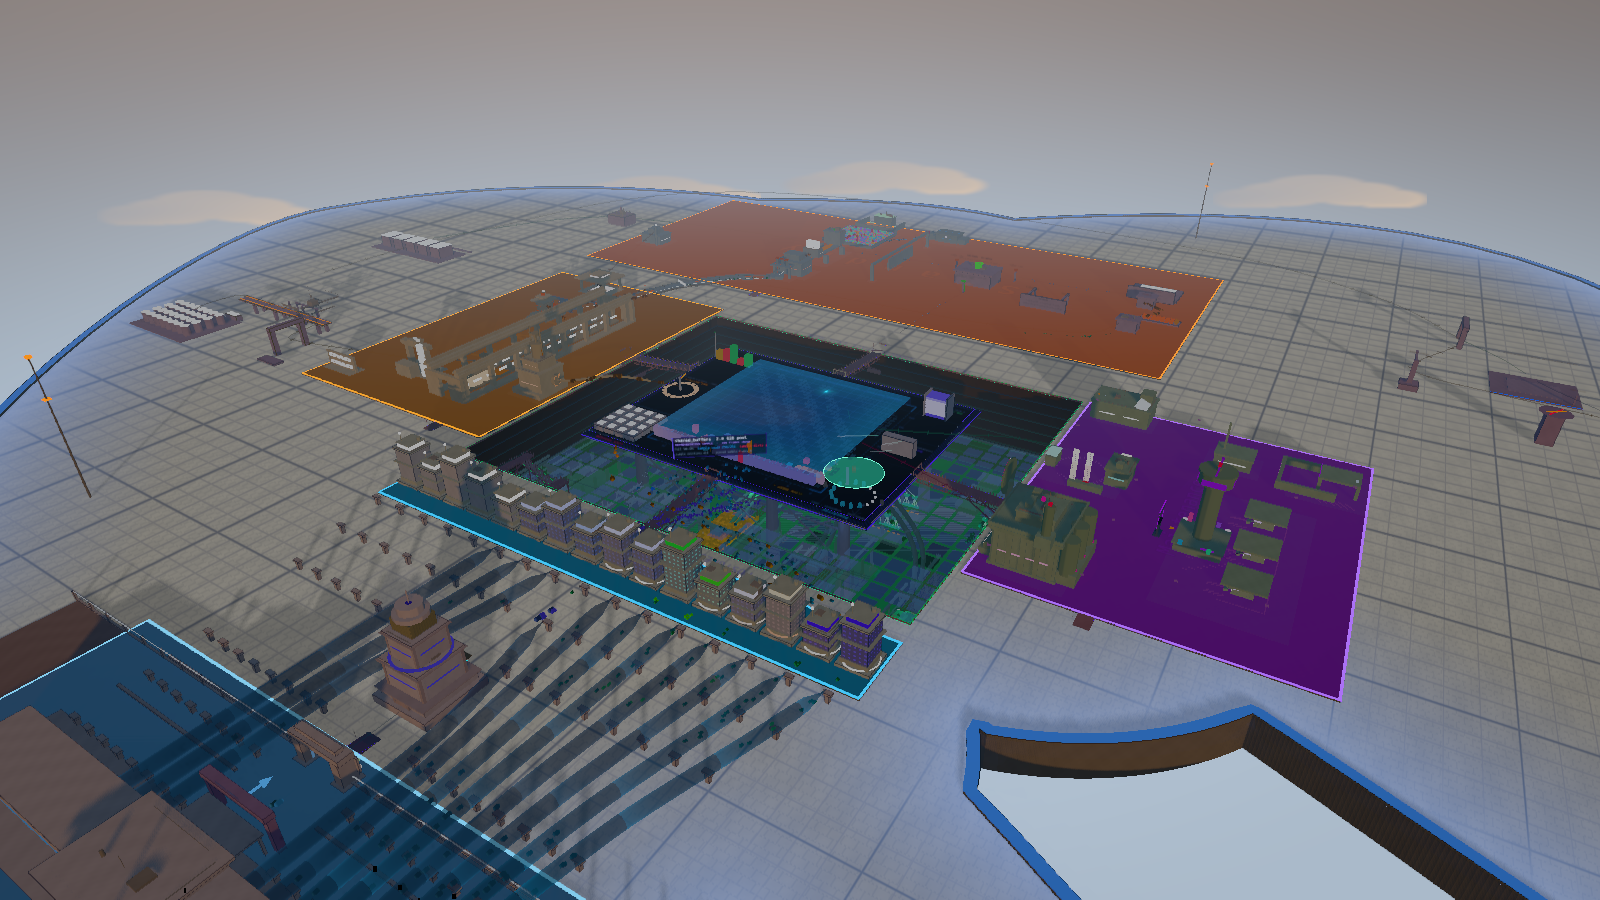
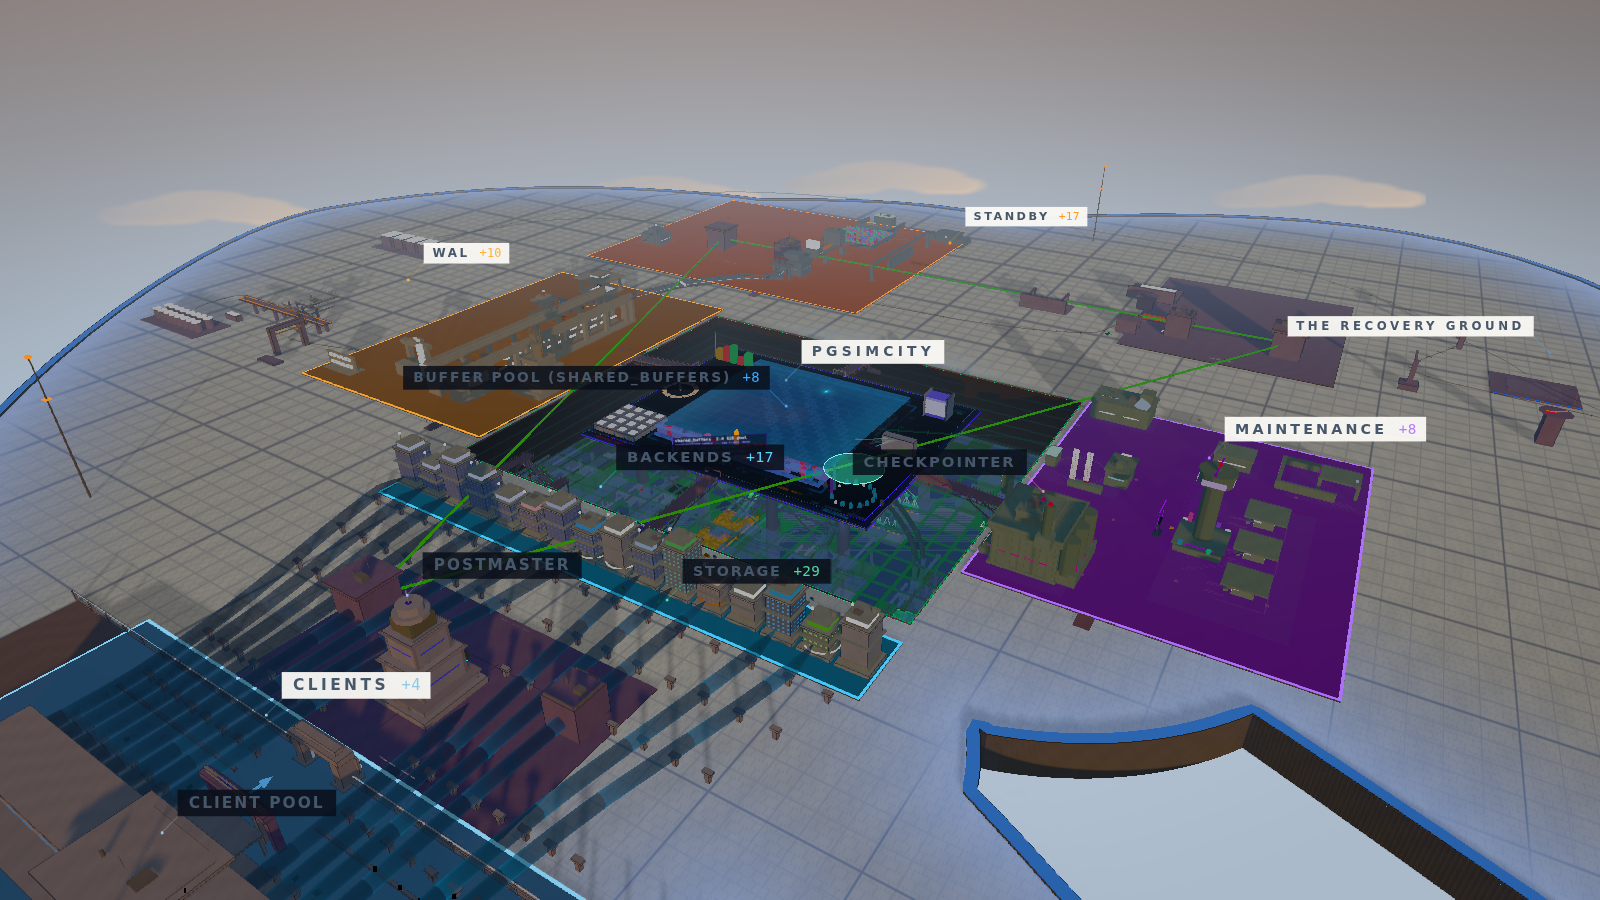
docs: correct front-door claims

diff --git a/test/claims-spine.test.ts b/test/claims-spine.test.ts
@@ -8,6 +8,7 @@ import {
 } from '../src/core/claims'
 import { MACHINE_SYNCHRONOUS_COMMIT_COMPARISON } from '../src/spine/machine-comparison'
 import { MACHINE_INDEX_WALK } from '../src/spine/machine-index-walk'
+import { POSTGRESQL_ORACLE_CLAIMS } from '../src/spine/postgresql-oracle'
 import type { ClaimId } from '../src/core/claims'
 import { DESTINATIONS } from '../src/core/destinations'
 import { formatModelMilliseconds } from '../src/core/trace-presentation'
@@ -132,8 +133,23 @@ describe('claims and conventions spine', () => {
     const hint = KNOB_META.find((knob) => knob.key === 'sharedBuffers')?.hint ?? ''
     expect(hint, 'bufferSample: controls:shared_buffers hint omits the default active sample')
       .toContain(String(CLAIM_VALUES.bufferSample.defaultActiveFrames))
-    expect(read('README.md'), 'bufferSample: README:buffer-pool row disagrees')
-      .toContain(`${CLAIM_VALUES.bufferSample.capacityFrames.toLocaleString('en-US')} representative frames (${CLAIM_VALUES.bufferSample.defaultActiveFrames} active at the default 2 GiB setting)`)
+    const postgresDefault = POSTGRESQL_ORACLE_CLAIMS.gucDefaults.find(
+      (claim) => claim.id === 'postgres-default/shared_buffers',
+    )
+    const modelDefault = POSTGRESQL_ORACLE_CLAIMS.gucDefaults.find(
+      (claim) => claim.id === 'city-model/shared_buffers',
+    )
+    expect(postgresDefault, 'bufferSample: oracle lacks the PostgreSQL default').toBeDefined()
+    expect(modelDefault, 'bufferSample: oracle lacks the city model default').toBeDefined()
+    expect(Array.isArray(postgresDefault!.expected)).toBe(false)
+    expect(Array.isArray(modelDefault!.expected)).toBe(false)
+    const postgresValue = postgresDefault!.expected as { value: string | number, unit: string }
+    const modelValue = modelDefault!.expected as { value: string | number, unit: string }
+    expect(postgresValue.unit).toBe('MB')
+    expect(modelValue.unit).toBe('MB')
+    const readmeDefaultBoundary = `${CLAIM_VALUES.bufferSample.capacityFrames.toLocaleString('en-US')} representative frames (${CLAIM_VALUES.bufferSample.defaultActiveFrames} active at the ${Number(modelValue.value) / 1024} GiB model default; ${CLAIM_VALUES.postgresqlVersion.referenceLabel} itself defaults to ${postgresValue.value} MiB)`
+    expect(read('README.md'), 'bufferSample: README:buffer-pool row disagrees with the oracle')
+      .toContain(readmeDefaultBoundary)
     expect(storageDocCopy('standby.b'), 'bufferSample: prose:standby sample disclosure disagrees')
       .toContain(`${CLAIM_VALUES.bufferSample.capacityFrames.toLocaleString('en-US')}-frame sample capacity; at the default 2 GiB setting ${CLAIM_VALUES.bufferSample.defaultActiveFrames} frames are active`)
   })

diff --git a/test/build-metadata.test.ts b/test/build-metadata.test.ts
@@ -6,12 +6,33 @@ import { BUILD_LABEL, BUILD_SHA, BUILD_VERSION } from '../src/core/build'
 
 const pkg = JSON.parse(
   readFileSync(fileURLToPath(new URL('../package.json', import.meta.url)), 'utf8'),
-) as { version: string }
+) as { version: string, engines: { node: string } }
+const lock = JSON.parse(
+  readFileSync(fileURLToPath(new URL('../package-lock.json', import.meta.url)), 'utf8'),
+) as { packages: Record<string, { engines?: { node?: string } }> }
+const read = (path: string): string =>
+  readFileSync(fileURLToPath(new URL(`../${path}`, import.meta.url)), 'utf8')
 
 describe('build marker', () => {
   it('contains the package version and build-time short git SHA', () => {
     expect(BUILD_VERSION).toBe(pkg.version)
     expect(BUILD_SHA).toMatch(/^[0-9a-f]{7}$/)
     expect(BUILD_LABEL).toBe(`v${pkg.version} · ${BUILD_SHA}`)
+
+    const viteNodeRange = lock.packages['node_modules/vite'].engines?.node
+    expect(pkg.engines.node).toBe(viteNodeRange)
+    for (const path of ['README.md', 'CONTRIBUTING.md', 'CLAUDE.md']) {
+      expect(read(path), `${path} does not state the toolchain's Node constraint`)
+        .toContain(`Node.js \`${pkg.engines.node}\``)
+    }
+
+    const contributing = read('CONTRIBUTING.md')
+    expect(contributing).toContain('google-chrome')
+    expect(contributing).toContain('CHROME_BIN')
+    expect(contributing).toContain("npm test -- --exclude '**/*.browser.test.*'")
+
+    const roadmap = read('ROADMAP.md')
+    expect(roadmap).toMatch(/starts at the `high` quality tier[^.]+`medium`[^.]+`reduced`[^.]+`low`/i)
+    expect(roadmap).not.toContain('Modest hardware falls to the `reduced` quality tier')
   })
 })

diff --git a/index.html b/index.html
@@ -54,7 +54,7 @@
     <meta property="og:image:height" content="630" />
     <meta
       property="og:image:alt"
-      content="The PGSimCity elephant mark beside a night-time 3D model of a PostgreSQL cluster laid out as a city."
+      content="The PGSimCity elephant mark and title above a golden-hour 3D PostgreSQL city with two standbys, recovery, continuity, WAL, storage, and maintenance districts."
     />
 
     <meta name="twitter:card" content="summary_large_image" />
@@ -66,7 +66,7 @@
     <meta name="twitter:image" content="https://nikolays.github.io/PGSimCity/og.png" />
     <meta
       name="twitter:image:alt"
-      content="The PGSimCity elephant mark beside a night-time 3D model of a PostgreSQL cluster laid out as a city."
+      content="The PGSimCity elephant mark and title above a golden-hour 3D PostgreSQL city with two standbys, recovery, continuity, WAL, storage, and maintenance districts."
     />
   </head>
   <body>

diff --git a/test/content-corrections.test.ts b/test/content-corrections.test.ts
@@ -52,6 +52,8 @@ describe('PostgreSQL 18 content corrections', () => {
 
     expect(readme).toContain('targets the PostgreSQL 18 major line')
     expect(readme).toContain('fixed 32-frame ring')
+    expect(readme).toMatch(/WAL district[^\n]+archiver copies completed[^\n]+walsenders independently stream WAL as it is generated/i)
+    expect(readme).not.toContain('walwriter → `pg_wal` segments → archiver → walsender')
     expect(bodies).toContain('io_combine_limit')
     expect(`${bodies}\n${diagnosticCopy}`).not.toMatch(/small (?:256 kB|256 KiB) ring/i)
     expect(CLAIM_VALUES.timelineRecovery.defaultDisclosure).toMatch(/since PostgreSQL 12/i)

diff --git a/README.md b/README.md
@@ -68,10 +68,10 @@ audio, or game content.
 | **Client sky** (north, above) | Connections arriving from the application tier |
 | **Postmaster** | The supervisor. Forks one backend per connection and never touches your data |
 | **Backend row** | 16 backend processes. Their lighting *is* their state — including `idle in transaction` |
-| **Buffer pool (`shared_buffers`)** | Up to 1,024 representative frames (256 active at the default 2 GiB setting), beside `wal_buffers`, the ProcArray, lock table, CLOG and buffer mapping table |
+| **Buffer pool (`shared_buffers`)** | Up to 1,024 representative frames (256 active at the 2 GiB model default; PostgreSQL 18.3 itself defaults to 128 MiB), beside `wal_buffers`, the ProcArray, lock table, CLOG and buffer mapping table |
 | **The excavation** | The data directory: where memory ends and storage begins |
 | **Storage** (below) | Heap files as fields of 8 KiB pages, B-trees as actual trees, TOAST, the FSM and visibility map, the OS page cache and the disks |
-| **WAL district** (east) | walwriter → `pg_wal` segments → archiver → walsender |
+| **WAL district** (east) | Backends and walwriter write WAL into `pg_wal`; the archiver copies completed segments, while walsenders independently stream WAL as it is generated |
 | **Maintenance yard** (west) | Checkpointer, background writer, autovacuum launcher and its workers |
 | **Standbys** (south) | Two independent walreceivers, startup processes replaying WAL, and the lag on each stream |
 | **Continuity quarter** (outer east and south) | WAL archive, base backups, point-in-time recovery, delayed replay, leader lease and rejoin machinery |
@@ -214,7 +214,7 @@ sources separately because PostgreSQL exposes the former and not the latter.
 
 ## Run it locally
 
-You need Node.js 20 or newer and a browser with WebGL2.
+You need Node.js `^20.19.0 || >=22.12.0` and a browser with WebGL2.
 
 ```bash
 npm install

diff --git a/CONTRIBUTING.md b/CONTRIBUTING.md
@@ -11,12 +11,12 @@ Thanks for helping make PostgreSQL internals understandable and accurate.
 
 ## Development
 
-Node.js 20 or newer is required.
+Node.js `^20.19.0 || >=22.12.0` is required.
 
 ```bash
 npm install
 npm run dev        # http://localhost:5173/
-npm test           # one fast, deterministic run
+npm test           # full suite, including Chrome tests
 npm run test:watch # rerun affected tests while editing
 npm run oracle     # compare registered claims with PostgreSQL 18
 ```
@@ -25,9 +25,18 @@ The oracle starts and removes its own throwaway cluster. It requires the target
 major's server binaries at `/usr/lib/postgresql/18/bin`; it never substitutes a
 different PostgreSQL major or silently runs without a server.
 
+The full `npm test` suite requires `google-chrome` on `PATH`. Set `CHROME_BIN`
+to select another Chrome or Chromium executable. Contributors without Chrome
+can run the deterministic fast lane while editing:
+
+```bash
+npm test -- --exclude '**/*.browser.test.*'
+```
+
 Tests that launch real Chrome use the `*.browser.test.*` filename convention.
 CI provisions Chrome for that separately gating lane; all other tests remain in
-the faster always-gating lane.
+the faster always-gating lane. Run the unfiltered suite before opening a pull
+request.
 
 Before opening a pull request:
 

diff --git a/ROADMAP.md b/ROADMAP.md
@@ -269,5 +269,6 @@ wait. The value is the controlled experiment, not two noisy executions.
 
 - Touch controls verified only in Chrome's mobile emulation, never on a device.
 - The plate's containment audit constrains the Slonik silhouette.
-- Modest hardware falls to the `reduced` quality tier, which is not what the
-  screenshots show.
+- The renderer starts at the `high` quality tier and adaptively steps through
+  `medium`, `reduced`, and potentially `low` based on measured frame rate; the
+  screenshots show the starting tier.

diff --git a/CLAUDE.md b/CLAUDE.md
@@ -51,7 +51,7 @@ event bus, registry, camera rig, renderer state, and flow controller.
 - three.js r185 for 3D and WebGL
 - Vite for development and the static production bundle
 - Vitest for deterministic unit and characterization tests
-- Node.js 20 or newer for local development
+- Node.js `^20.19.0 || >=22.12.0` for local development
 - WebGL2 in the browser
 
 three.js is the only bundled runtime dependency of the 3D application.
